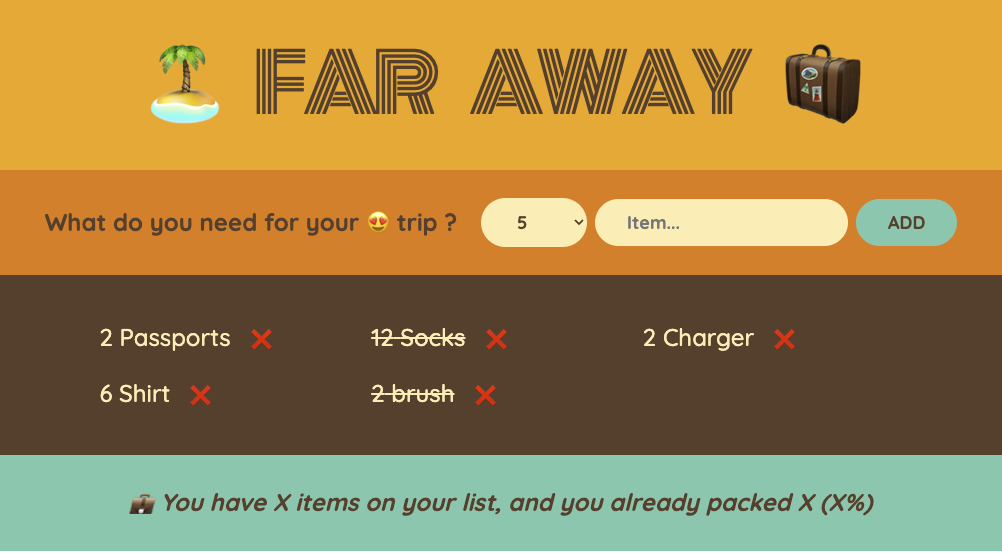
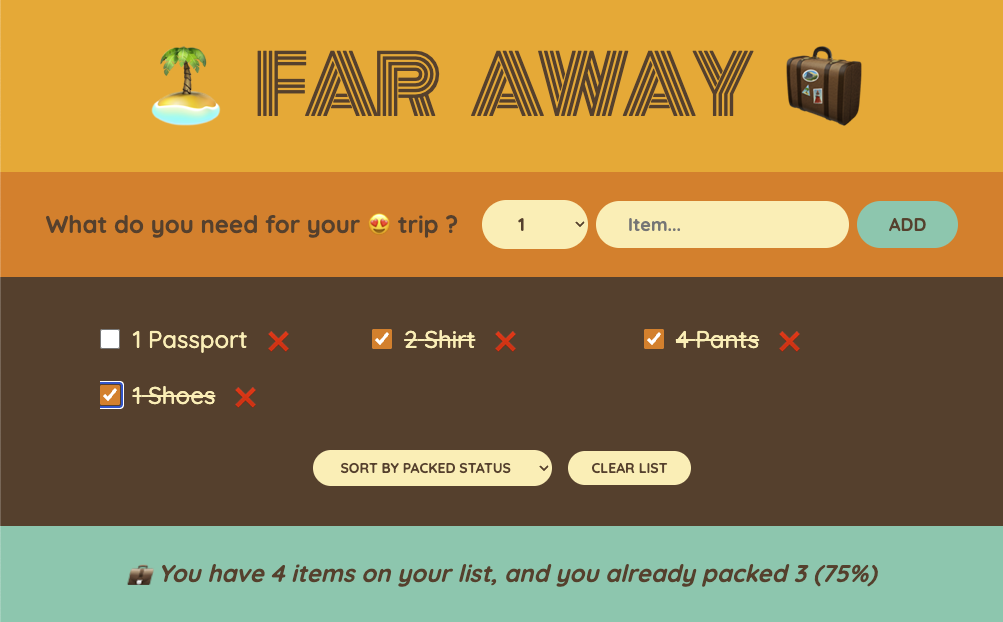
Add project README and update project image
Added a detailed README.md with project overview, features, React concepts learned, project structure, and setup instructions. Updated project-image.png to reflect the latest project screenshot.

diff --git a/README.md b/README.md
@@ -1,0 +1,73 @@
+# 🏝 Far Away - Travel Packing List App 🧳
+
+![Project Screenshot](project-image.png)
+
+## 📋 Project Overview
+A simple and intuitive React app for managing travel packing lists. Add items, mark them as packed, sort your list, and track your packing progress with a clean, user-friendly interface.
+
+## 🚀 How It Works
+1. **Add Items**: Enter item description and quantity
+2. **Track Progress**: Check off items as you pack them
+3. **Sort Lists**: Organize by input order, description, or packed status
+4. **Clear All**: Remove all items with confirmation dialog
+5. **Visual Feedback**: See completion percentage and motivational messages
+
+## ⚛ React Concepts Learned
+• **useState Hook** - Managing component state for items, sorting, and form inputs
+• **Event Handling** - onSubmit, onChange, onClick event handlers
+• **Conditional Rendering** - Displaying different UI based on state conditions
+• **Component Props** - Passing data and functions between parent/child components
+• **Array Methods** - map(), filter(), sort() for rendering and data manipulation
+• **Controlled Components** - Form inputs controlled by React state
+• **Component Composition** - Breaking UI into reusable, modular components
+• **State Lifting** - Managing shared state in parent component
+
+## 📁 Project Structure
+```
+far-away/
+├── public/
+│   ├── favicon.ico
+│   ├── index.html
+│   └── manifest.json
+├── src/
+│   ├── components/
+│   │   ├── App.js
+│   │   ├── Form.js
+│   │   ├── Item.js
+│   │   ├── Logo.js
+│   │   ├── PackingList.js
+│   │   └── Status.js
+│   ├── index.css
+│   ├── index.js
+│   └── test.js
+├── package.json
+├── project-image.png
+└── README.md
+```
+
+## 💻 Installation & Setup
+
+### Prerequisites
+- Node.js (v14 or higher)
+- npm or yarn
+
+### Steps
+1. **Clone the repository**
+   ```bash
+   git clone https://github.com/ashifulalam/Far-Away.git
+   cd far-away
+   ```
+
+2. **Install dependencies**
+   ```bash
+   npm install
+   ```
+
+3. **Start the development server**
+   ```bash
+   npm start
+   ```
+
+4. **Open in browser**
+   - Navigate to `http://localhost:3000`
+   - The app will automatically reload when you make changes
